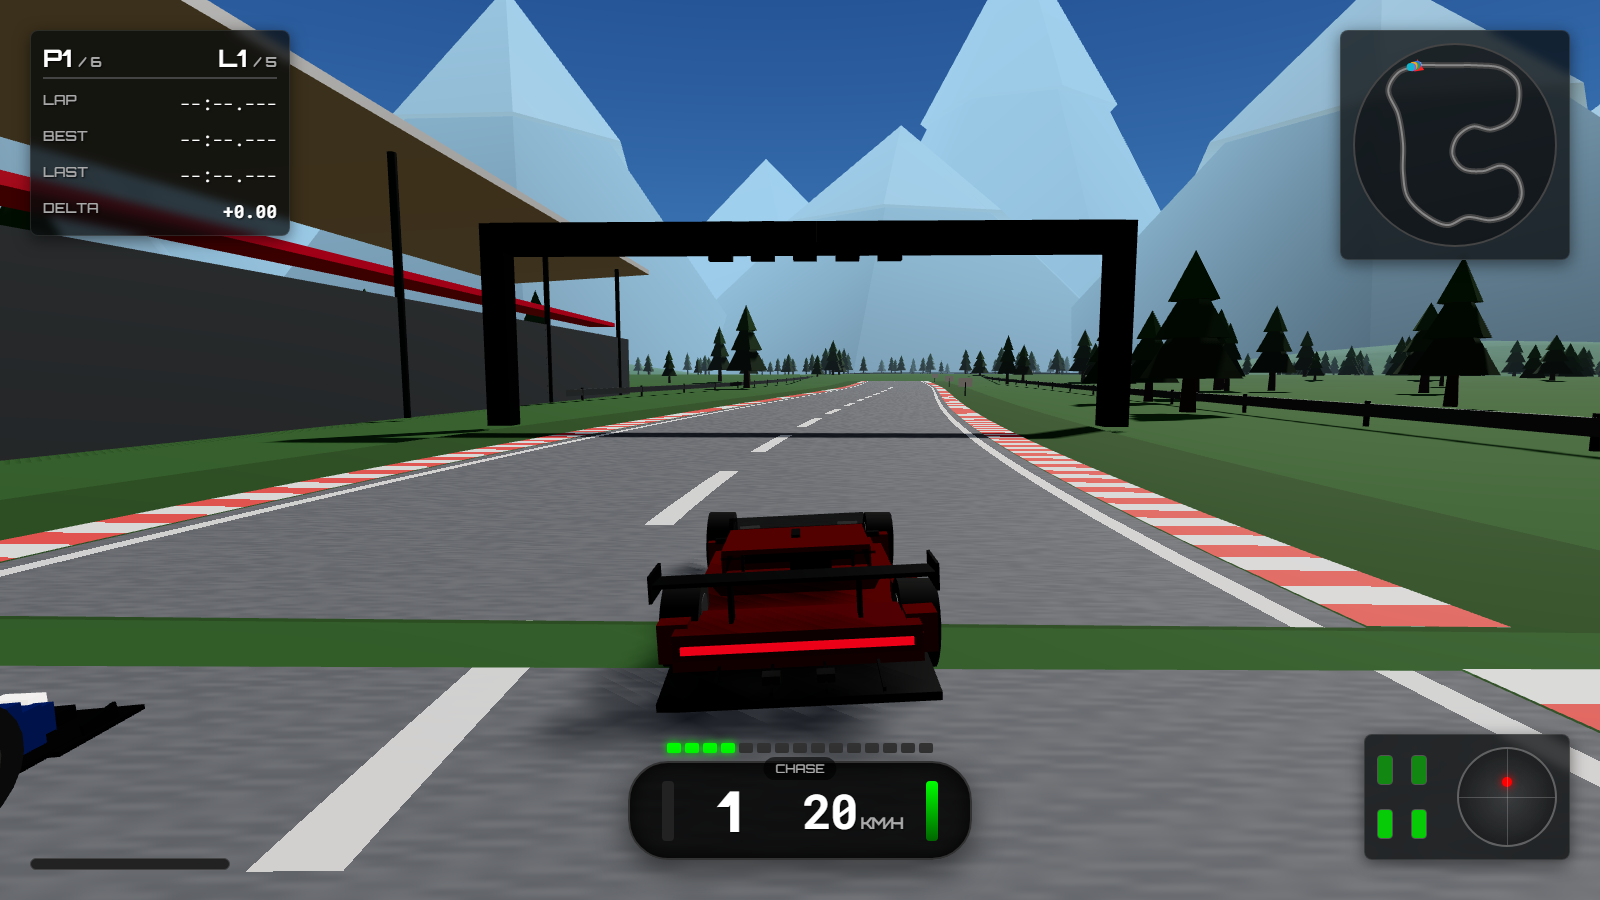
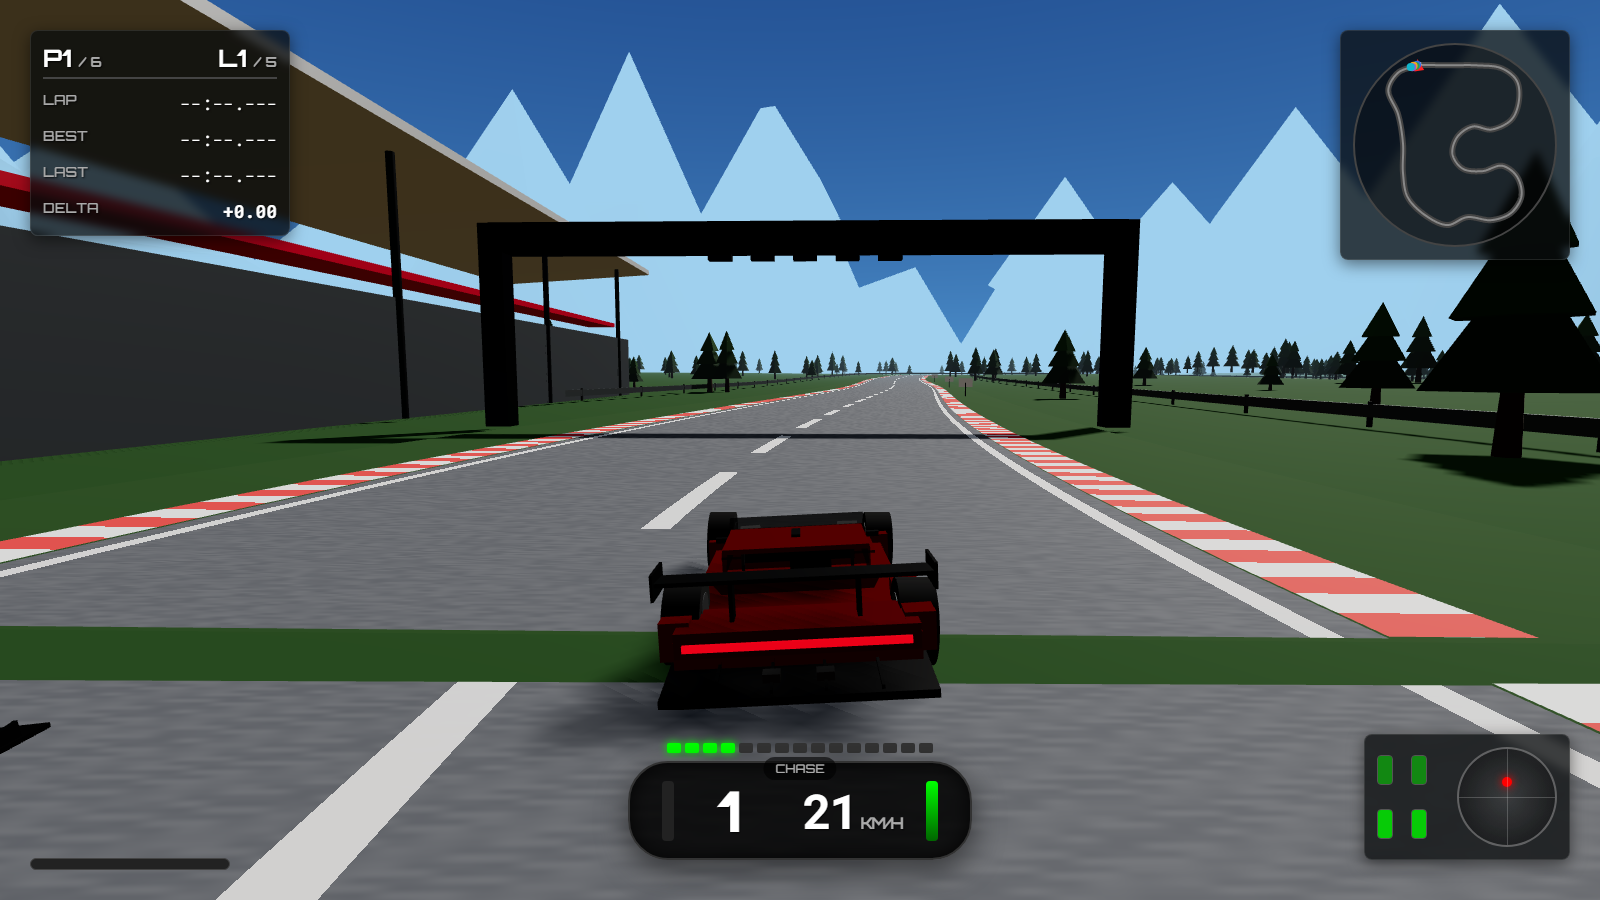
fix(environment): conform terrain elevation to track profile and push mountain ring to far horizon

diff --git a/src/gfx/environment.js b/src/gfx/environment.js
@@ -6,30 +6,66 @@ export function buildEnvironment(track, scene) {
 
   const dummy = new THREE.Object3D();
 
+  // Compute track bounding box and center
+  let minX = Infinity, maxX = -Infinity, minZ = Infinity, maxZ = -Infinity;
+  for (const sm of track.samples) {
+    minX = Math.min(minX, sm.pos.x);
+    maxX = Math.max(maxX, sm.pos.x);
+    minZ = Math.min(minZ, sm.pos.z);
+    maxZ = Math.max(maxZ, sm.pos.z);
+  }
+  const trackCenterX = (minX + maxX) / 2;
+  const trackCenterZ = (minZ + maxZ) / 2;
+
+  // Ground elevation function that conforms strictly to track elevation
+  function getGroundHeight(x, z) {
+    const n = track.nearest({ x, z });
+    const sm = track.samples[n.idx];
+    const distToCenterline = n.dist;
+    const roadVergeWidth = (sm.width || 13) / 2 + 5.0; // road + curb + verge
+
+    // Under road and verge ribbon: stay safely below track geometry
+    if (distToCenterline <= roadVergeWidth) {
+      return sm.pos.y - 0.08;
+    }
+
+    const margin = distToCenterline - roadVergeWidth;
+    const roadY = sm.pos.y - 0.08;
+
+    if (margin < 40.0) {
+      // Smooth Hermite blend from road elevation to surrounding meadow
+      const t = margin / 40.0;
+      const smoothT = t * t * (3 - 2 * t);
+      const naturalMeadow = roadY - 0.2;
+      return roadY * (1 - smoothT) + naturalMeadow * smoothT;
+    }
+
+    // Far from track: gentle undulating meadow hills (never exceeding +4m)
+    const farDist = margin - 40.0;
+    const blendFar = Math.min(1.0, farDist / 100.0);
+    const meadowHills = Math.sin(x * 0.006) * Math.cos(z * 0.006) * 3.5;
+    return (sm.pos.y - 0.25) + meadowHills * blendFar;
+  }
+
   // ==========================================
-  // 1. VAST GROUND TERRAIN (Seamless Alpine Meadow)
+  // 1. VAST GROUND TERRAIN (Conforming to Track)
   // ==========================================
-  const terrainGeo = new THREE.PlaneGeometry(3500, 3500, 64, 64);
+  const terrainGeo = new THREE.PlaneGeometry(6000, 6000, 100, 100);
   terrainGeo.rotateX(-Math.PI / 2);
   
-  // Add subtle organic rolling terrain elevation
+  // Center terrain mesh on track center
+  terrainGeo.translate(trackCenterX, 0, trackCenterZ);
+
   const posAttr = terrainGeo.attributes.position;
   for (let i = 0; i < posAttr.count; i++) {
     const x = posAttr.getX(i);
     const z = posAttr.getZ(i);
-    // Low frequency rolling hills away from the center
-    const d = Math.hypot(x, z);
-    if (d > 180) {
-      const hill = Math.sin(x * 0.008) * Math.cos(z * 0.008) * 18 + Math.sin(x * 0.015) * 8;
-      posAttr.setY(i, Math.max(-1.5, hill * Math.min(1, (d - 180) / 300)) - 0.2);
-    } else {
-      posAttr.setY(i, -0.2);
-    }
+    posAttr.setY(i, getGroundHeight(x, z));
   }
   terrainGeo.computeVertexNormals();
 
   const terrainMat = new THREE.MeshStandardMaterial({
-    color: 0x3d6632,
+    color: 0x325626,
     roughness: 0.95,
     metalness: 0.05,
     flatShading: true,
@@ -39,42 +75,43 @@ export function buildEnvironment(track, scene) {
   group.add(terrain);
 
   // ==========================================
-  // 2. SNOW-CAPPED ALPINE MOUNTAIN RANGE (Distant Horizon)
+  // 2. SNOW-CAPPED ALPINE MOUNTAIN RANGE (Far Horizon Ring)
   // ==========================================
   const mtnGroup = new THREE.Group();
   const mtnCount = 36;
   const mtnRockMat = new THREE.MeshStandardMaterial({
-    color: 0x4f5963,
+    color: 0x47515a,
     roughness: 0.9,
     metalness: 0.1,
     flatShading: true,
   });
   const mtnSnowMat = new THREE.MeshStandardMaterial({
-    color: 0xeef4f8,
-    roughness: 0.7,
+    color: 0xf0f5f9,
+    roughness: 0.65,
     metalness: 0.05,
     flatShading: true,
   });
 
-  // Base Rock Cone
-  const rockGeo = new THREE.ConeGeometry(320, 480, 7, 1);
-  rockGeo.translate(0, 240, 0);
+  // Base Rock Cone (radius 420m, height 700m, deeply anchored into ground)
+  const rockGeo = new THREE.ConeGeometry(420, 700, 8, 1);
+  rockGeo.translate(0, 250, 0);
   const rockMesh = new THREE.InstancedMesh(rockGeo, mtnRockMat, mtnCount);
 
   // Snow Cap Peak
-  const snowGeo = new THREE.ConeGeometry(140, 190, 7, 1);
-  snowGeo.translate(0, 385, 0);
+  const snowGeo = new THREE.ConeGeometry(180, 260, 8, 1);
+  snowGeo.translate(0, 470, 0);
   const snowMesh = new THREE.InstancedMesh(snowGeo, mtnSnowMat, mtnCount);
 
+  // Place mountains in a wide ring 1650m - 1950m away from track center
   for (let i = 0; i < mtnCount; i++) {
-    const angle = (i / mtnCount) * Math.PI * 2 + (Math.random() - 0.5) * 0.1;
-    const r = 1100 + (i % 3) * 200 + Math.random() * 150;
-    const px = Math.cos(angle) * r;
-    const pz = Math.sin(angle) * r;
-    const scaleY = 0.8 + Math.random() * 0.9;
-    const scaleXZ = 0.8 + Math.random() * 0.6;
+    const angle = (i / mtnCount) * Math.PI * 2 + (Math.random() - 0.5) * 0.08;
+    const r = 1750 + (i % 4) * 120 + Math.random() * 100;
+    const px = trackCenterX + Math.cos(angle) * r;
+    const pz = trackCenterZ + Math.sin(angle) * r;
+    const scaleY = 0.9 + Math.random() * 0.8;
+    const scaleXZ = 0.9 + Math.random() * 0.5;
 
-    dummy.position.set(px, -20, pz);
+    dummy.position.set(px, -120, pz);
     dummy.rotation.set(0, Math.random() * Math.PI * 2, 0);
     dummy.scale.set(scaleXZ, scaleY, scaleXZ);
     dummy.updateMatrix();
@@ -88,25 +125,24 @@ export function buildEnvironment(track, scene) {
   group.add(mtnGroup);
 
   // ==========================================
-  // 3. REALISTIC 3D PINE TREES (Multi-tiered Instanced Forest)
+  // 3. REALISTIC 3D PINE TREES (Naturally Dispersed)
   // ==========================================
-  // Build a multi-tier pine tree geometry: Trunk + 3 layered cone crowns
-  const trunkGeo = new THREE.CylinderGeometry(0.25, 0.4, 3.0, 6);
-  trunkGeo.translate(0, 1.5, 0);
-  const trunkMat = new THREE.MeshStandardMaterial({ color: 0x3d2714, roughness: 0.95 });
+  const trunkGeo = new THREE.CylinderGeometry(0.22, 0.35, 2.8, 6);
+  trunkGeo.translate(0, 1.4, 0);
+  const trunkMat = new THREE.MeshStandardMaterial({ color: 0x362312, roughness: 0.95 });
 
-  const crownGeo1 = new THREE.ConeGeometry(2.4, 4.0, 6);
-  crownGeo1.translate(0, 3.8, 0);
-  const crownGeo2 = new THREE.ConeGeometry(1.8, 3.4, 6);
-  crownGeo2.translate(0, 5.6, 0);
-  const crownGeo3 = new THREE.ConeGeometry(1.2, 2.6, 6);
-  crownGeo3.translate(0, 7.2, 0);
+  const crownGeo1 = new THREE.ConeGeometry(2.2, 3.6, 6);
+  crownGeo1.translate(0, 3.5, 0);
+  const crownGeo2 = new THREE.ConeGeometry(1.6, 3.0, 6);
+  crownGeo2.translate(0, 5.1, 0);
+  const crownGeo3 = new THREE.ConeGeometry(1.1, 2.4, 6);
+  crownGeo3.translate(0, 6.5, 0);
 
-  const foliageMat1 = new THREE.MeshStandardMaterial({ color: 0x1f3b18, roughness: 0.85, flatShading: true });
-  const foliageMat2 = new THREE.MeshStandardMaterial({ color: 0x274a1e, roughness: 0.85, flatShading: true });
-  const foliageMat3 = new THREE.MeshStandardMaterial({ color: 0x315c26, roughness: 0.85, flatShading: true });
+  const foliageMat1 = new THREE.MeshStandardMaterial({ color: 0x1c3616, roughness: 0.85, flatShading: true });
+  const foliageMat2 = new THREE.MeshStandardMaterial({ color: 0x24441b, roughness: 0.85, flatShading: true });
+  const foliageMat3 = new THREE.MeshStandardMaterial({ color: 0x2e5423, roughness: 0.85, flatShading: true });
 
-  const treeCount = 900;
+  const treeCount = 800;
   const trunkMesh = new THREE.InstancedMesh(trunkGeo, trunkMat, treeCount);
   const foliageMesh1 = new THREE.InstancedMesh(crownGeo1, foliageMat1, treeCount);
   const foliageMesh2 = new THREE.InstancedMesh(crownGeo2, foliageMat2, treeCount);
@@ -118,19 +154,18 @@ export function buildEnvironment(track, scene) {
 
   let placed = 0;
   for (let i = 0; i < treeCount; i++) {
-    // Pick track sample and place safely outside the track + runoff
     const sm = track.samples[Math.floor(Math.random() * track.samples.length)];
     const side = Math.random() > 0.5 ? 1 : -1;
-    // Keep min distance 24m away from centerline so trees never encroach on track
-    const dist = 24 + Math.pow(Math.random(), 1.6) * 160;
-    const lateralJitter = (Math.random() - 0.5) * 16;
-    const forwardJitter = (Math.random() - 0.5) * 16;
+    // Distance safely 20m - 160m outside track centerline
+    const dist = 20 + Math.pow(Math.random(), 1.5) * 140;
+    const lateralJitter = (Math.random() - 0.5) * 14;
+    const forwardJitter = (Math.random() - 0.5) * 14;
 
     const px = sm.pos.x + sm.left.x * dist * side + sm.dir.x * forwardJitter + sm.left.x * lateralJitter;
     const pz = sm.pos.z + sm.left.y * dist * side + sm.dir.y * forwardJitter + sm.left.y * lateralJitter;
-    const py = track.heightAt ? track.heightAt(px, pz) : 0;
+    const py = getGroundHeight(px, pz);
 
-    const scale = 0.75 + Math.random() * 0.7; // Tree height 6m - 12m
+    const scale = 0.7 + Math.random() * 0.6;
     dummy.position.set(px, py, pz);
     dummy.rotation.set(0, Math.random() * Math.PI * 2, 0);
     dummy.scale.set(scale, scale * (0.9 + Math.random() * 0.3), scale);
